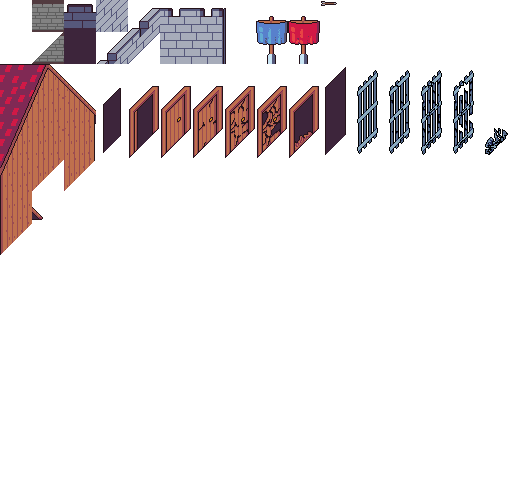
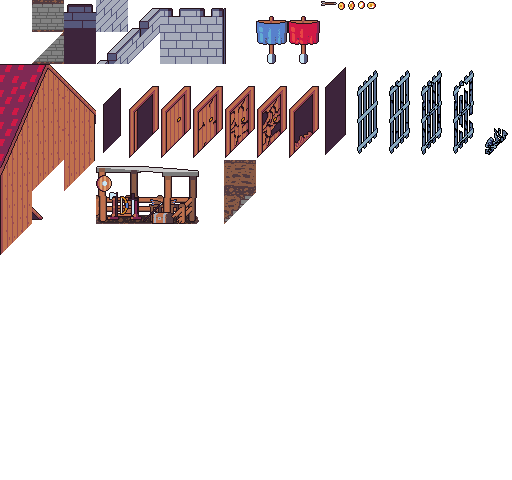
Camp decor

Changed region(s): [[0.1875, 0.3438, 0.4062, 0.4688], [0.4375, 0.3125, 0.5, 0.4688], [0.6562, 0.0, 0.75, 0.0312]]

diff --git a/game/scene.go b/game/scene.go
@@ -4,8 +4,6 @@ import (
 	"pure-game-kit/packages/assets"
 	"pure-game-kit/packages/geometry"
 	"pure-game-kit/packages/graphics"
-	"pure-game-kit/packages/input/keyboard"
-	"pure-game-kit/packages/input/keyboard/key"
 	"pure-game-kit/packages/utility/collection"
 	"pure-game-kit/packages/utility/color"
 	"pure-game-kit/packages/utility/number"
@@ -40,8 +38,8 @@ var Masks = [13]geometry.Area{
 	LaneUpper:  geometry.NewArea(0, 0, 428, 1000),
 }
 var Entrances [6]*Entrance // index is Ally[Lower, Middle, Upper], Enemy[Lower, Middle, Upper]
-var Units []*Unit
-var Projectiles, ProjectilesBehind []*Projectile
+var Units []*Unit = make([]*Unit, 0, 16)
+var Projectiles, ProjectilesBehind []*Projectile = make([]*Projectile, 0, 32), make([]*Projectile, 0, 32)
 
 func InitScene() {
 	View = graphics.NewView(1)
@@ -52,11 +50,11 @@ func InitScene() {
 	assets.FontId(0).EmbedImage(text.At(Tags[IconHealth], 0), UserInterfaceCrops.Crops("icons")[IconHealth])
 
 	var layers, decor = assets.LoadTileLayersFromTiled("data/map.tmx")
-	var low, mid, up = graphics.NewTilemap(layers[12]), graphics.NewTilemap(layers[13]), graphics.NewTilemap(layers[14])
-	var g1, g2, g3 = graphics.NewTilemap(layers[15]), graphics.NewTilemap(layers[16]), graphics.NewTilemap(layers[17])
-	var g4, g5 = graphics.NewTilemap(layers[18]), graphics.NewTilemap(layers[19])
-	var p1, p2, p3 = graphics.NewTilemap(layers[20]), graphics.NewTilemap(layers[21]), graphics.NewTilemap(layers[22])
-	var p4, p5 = graphics.NewTilemap(layers[23]), graphics.NewTilemap(layers[24])
+	var low, mid, up = graphics.NewTilemap(layers[13]), graphics.NewTilemap(layers[14]), graphics.NewTilemap(layers[15])
+	var g1, g2, g3 = graphics.NewTilemap(layers[16]), graphics.NewTilemap(layers[17]), graphics.NewTilemap(layers[18])
+	var g4, g5 = graphics.NewTilemap(layers[19]), graphics.NewTilemap(layers[20])
+	var p1, p2, p3 = graphics.NewTilemap(layers[21]), graphics.NewTilemap(layers[22]), graphics.NewTilemap(layers[23])
+	var p4, p5 = graphics.NewTilemap(layers[24]), graphics.NewTilemap(layers[25])
 
 	Layers = layers
 	DecorCrops = assets.LoadAtlas(decor, "data/decor.xml")
@@ -77,14 +75,14 @@ func InitScene() {
 
 	mirrorGarrisonLanes()
 
-	MapLayer, Map = layers[9], graphics.NewTilemap(layers[9])
-	Flags, Grid = graphics.NewTilemap(layers[10]), graphics.NewTilemap(layers[11])
+	MapLayer, Map = layers[9], graphics.NewTilemap(layers[10])
+	Flags, Grid = graphics.NewTilemap(layers[11]), graphics.NewTilemap(layers[12])
 
-	AllyBase = NewBase(BaseFortress, Garrison3, true)
-	EnemyBase = NewBase(BaseFort, Garrison0, false)
+	AllyBase = NewBase(SaveState{}, true)
+	EnemyBase = NewBase(SaveState{Base: BaseFort}, false)
 
 	Units = append(Units, NewUnit(CharacterHunter, TeamAlly, LaneMiddle))
-	// Units = append(Units, NewUnit(CharacterHunter, TeamEnemy, LaneUpper))
+	Units = append(Units, NewUnit(CharacterHunter, TeamEnemy, LaneUpper))
 	// Units = append(Units, NewUnit(CharacterMan, TeamEnemy, LaneUpper))
 	// Units = append(Units, NewUnit(CharacterWoman, TeamEnemy, LaneMiddle))
 	// Units = append(Units, NewUnit(CharacterHunter, TeamAlly, LaneGarrisonPlus1))
@@ -99,12 +97,12 @@ func InitScene() {
 	// Units = append(Units, NewUnit(CharacterHunter, TeamAlly, LaneGarrison5))
 
 	Entrances = [6]*Entrance{
-		LaneLower:      NewEntrance(EntranceTallGate, TeamAlly, LaneLower),
-		LaneMiddle:     NewEntrance(EntranceTallGate, TeamAlly, LaneMiddle),
-		LaneUpper:      NewEntrance(EntranceTallGate, TeamAlly, LaneUpper),
-		LaneLower + 3:  NewEntrance(EntranceHole, TeamEnemy, LaneLower),
+		LaneLower:      NewEntrance(EntranceNone, TeamAlly, LaneLower),
+		LaneMiddle:     NewEntrance(EntranceNone, TeamAlly, LaneMiddle),
+		LaneUpper:      NewEntrance(EntranceNone, TeamAlly, LaneUpper),
+		LaneLower + 3:  NewEntrance(EntranceNone, TeamEnemy, LaneLower),
 		LaneMiddle + 3: NewEntrance(EntranceDoor, TeamEnemy, LaneMiddle),
-		LaneUpper + 3:  NewEntrance(EntranceHole, TeamEnemy, LaneUpper),
+		LaneUpper + 3:  NewEntrance(EntranceNone, TeamEnemy, LaneUpper),
 	}
 
 	PlayAmbience(EnvironmentPlains)
@@ -118,14 +116,8 @@ func UpdateScene() {
 	View.DrawColor(skyColor)
 	View.DrawObject(&Background)
 
-	View.DrawObject(AllyBase.Back)
-	View.DrawObject(AllyBase.GarrisonBack)
-	View.DrawObject(EnemyBase.Back)
-	View.DrawObject(EnemyBase.GarrisonBack)
-
-	if keyboard.IsKeyJustPressed(key.A) {
-		Entrances[4].TakeDamage(30)
-	}
+	AllyBase.UpdateBack()
+	EnemyBase.UpdateBack()
 
 	for _, g := range Entrances {
 		g.Update()
@@ -151,8 +143,8 @@ func UpdateScene() {
 		}
 	}
 
-	AllyBase.Update()
-	EnemyBase.Update()
+	AllyBase.UpdateFront()
+	EnemyBase.UpdateFront()
 
 	for _, p := range Projectiles {
 		if p != nil { // may have been destroyed, faded out & removed during an update

diff --git a/game/base.go b/game/base.go
@@ -8,23 +8,27 @@ import (
 
 type Base uint8
 type Garrison uint8
-
+type SaveState struct {
+	Base     Base
+	Garrison Garrison
+	Coins    int
+}
 type BaseData struct {
+	SaveState
+
 	Glory int
 
 	Back, Front, GarrisonBack, GarrisonFront, GloryLabel *graphics.Object
 
 	lastGlory int
-	base      Base
-	garrison  Garrison
 }
 
-const BaseBarrack, BaseFort, BaseFortress Base = 0, 1, 2
+const BaseCamp, BaseBarrack, BaseFort, BaseFortress Base = 0, 1, 2, 3
 const Garrison0, Garrison1, Garrison2, Garrison3 Garrison = 0, 1, 2, 3
 
-func NewBase(base Base, garrison Garrison, ally bool) BaseData {
-	var glory = map[Base]int{BaseBarrack: 40, BaseFort: 100, BaseFortress: 350}[base]
-	var b = BaseData{base: base, garrison: garrison, Glory: glory}
+func NewBase(saveState SaveState, ally bool) BaseData {
+	var glory = map[Base]int{BaseCamp: 15, BaseBarrack: 30, BaseFort: 90, BaseFortress: 360}[saveState.Base]
+	var b = BaseData{SaveState: saveState, Glory: glory}
 
 	var ptsX, ptsY = PointAtCell(14, 5.5)
 	if ally {
@@ -37,27 +41,32 @@ func NewBase(base Base, garrison Garrison, ally bool) BaseData {
 	label.Effects.OutlineSize, label.Effects.OutlineColor = 0.4, palette.Black
 	b.GloryLabel = &label
 
-	if base == BaseBarrack {
-		var barrack = graphics.NewTilemap(Layers[0])
-		b.Front = &barrack
+	switch b.Base {
+	case BaseCamp:
+		var back = graphics.NewTilemap(Layers[0])
+		b.Back = &back
+		return b
+	case BaseBarrack:
+		var barrack = graphics.NewTilemap(Layers[1])
+		b.Back = &barrack
 		return b
 	}
 
-	var back, front = graphics.NewTilemap(Layers[1]), graphics.NewTilemap(Layers[2])
+	var back, front = graphics.NewTilemap(Layers[2]), graphics.NewTilemap(Layers[3])
 	b.Back, b.Front = &back, &front
 
-	if garrison != Garrison0 {
-		var indexes = map[Garrison][2]int{Garrison1: {3, 4}, Garrison2: {5, 6}, Garrison3: {7, 8}}[garrison]
+	if b.Garrison != Garrison0 {
+		var indexes = map[Garrison][2]int{Garrison1: {4, 5}, Garrison2: {6, 7}, Garrison3: {8, 9}}[b.Garrison]
 		var garBack, garFront = graphics.NewTilemap(Layers[indexes[0]]), graphics.NewTilemap(Layers[indexes[1]])
 		b.GarrisonBack, b.GarrisonFront = &garBack, &garFront
 
-		if base == BaseFort {
+		if b.Base == BaseFort {
 			b.GarrisonBack.Y += TileSize
 			b.GarrisonFront.Y += TileSize
 		}
 	}
 
-	if base == BaseFort {
+	if b.Base == BaseFort {
 		b.Back.Y += TileSize
 		b.Front.Y += TileSize
 
@@ -70,11 +79,15 @@ func NewBase(base Base, garrison Garrison, ally bool) BaseData {
 	return b
 }
 
-func (b *BaseData) Update() {
+func (b *BaseData) UpdateBack() {
+	View.DrawObject(b.Back)
+	View.DrawObject(b.GarrisonBack)
+}
+func (b *BaseData) UpdateFront() {
 	b.Glory = max(b.Glory, 0)
 
 	if b.Glory == 0 {
-		TimeScale = 0 // game over
+		//TimeScale = 0 // game over
 	}
 
 	if b.Glory != b.lastGlory {

diff --git a/game/unit.go b/game/unit.go
@@ -89,7 +89,13 @@ func NewUnit(character Character, team Team, lane Lane) *Unit {
 		unit.X, unit.Y = PointAtCell(18, 3)
 	}
 	if team == TeamAlly {
+		if AllyBase.Base == BaseCamp {
+			unit.X = Background.Width/2 + unit.Width/2
+		}
+
 		unit.X = -unit.X
+	} else if EnemyBase.Base == BaseCamp {
+		unit.X = Background.Width / 2
 	}
 
 	var hb = unit.Hitbox()
@@ -294,13 +300,25 @@ func (u *Unit) actUponState() {
 		switch u.Team {
 		case TeamAlly:
 			u.VelocityX = float32(u.Stats.MoveSpeed)
+			if (u.X < 0 && AllyBase.Base == BaseCamp) || (u.X > 0 && EnemyBase.Base == BaseCamp) {
+				u.Mask = geometry.Area{}
+			}
 			if e != nil && u.X > e.Tiles[0].X {
 				u.HealthBar.MoveToGlory(2.0)
 			}
+			if u.X > Background.Width/2+u.Width/2 {
+				Units = collection.Remove(Units, u)
+			}
 		case TeamEnemy:
 			u.VelocityX = -float32(u.Stats.MoveSpeed)
+			if u.X < 0 && AllyBase.Base == BaseCamp {
+				u.Mask = geometry.Area{}
+			}
 			if e != nil && u.X < e.Tiles[0].X {
 				u.HealthBar.MoveToGlory(2.0)
+			}
+			if u.X < -Background.Width/2-u.Width/2 {
+				Units = collection.Remove(Units, u)
 			}
 		}
 	case StateActionStart:
@@ -336,8 +354,10 @@ func (u *Unit) actUponState() {
 			PlaySound(Characters[u.Character].Sounds.ActionTrigger)
 		} else if canBeActedUpon && e != nil {
 			var x, y = e.Tiles[0].X, e.Tiles[0].Y
-			var z = map[Lane]float32{LaneLower: 0, LaneMiddle: 1, LaneUpper: 2}[e.Lane]
-			Projectiles = append(Projectiles, u.NewProjectile(u.X, u.Y, u.Z, x, y, z, dmg, e))
+			if e.Entrance == EntranceTallGate {
+				y += TileSize
+			}
+			Projectiles = append(Projectiles, u.NewProjectile(u.X, u.Y, u.Z, x, y, zs[e.Lane], dmg, e))
 			PlaySound(Characters[u.Character].Sounds.ActionTrigger)
 		}
 	case StateActionCharging, StateActionRecovering, StateActionEnd: // empty

diff --git a/game/entrance.go b/game/entrance.go
@@ -10,7 +10,7 @@ import (
 
 type EntranceType uint8
 
-const EntranceHole, EntranceDoor, EntranceShortGate, EntranceTallGate EntranceType = 0, 1, 2, 3
+const EntranceNone, EntranceDoor, EntranceShortGate, EntranceTallGate EntranceType = 0, 1, 2, 3
 
 type Entrance struct {
 	Tiles     []*graphics.Object
@@ -29,7 +29,7 @@ func NewEntrance(entry EntranceType, team Team, lane Lane) *Entrance {
 	var data = Entrance{Entrance: entry, Team: team, Lane: lane, maxOpenY: TileSize + (TileSize * (float32(entry) - 1))}
 	var x, y float32 = -208, 48 // ally upper lane by default
 
-	if entry != EntranceHole {
+	if entry != EntranceNone {
 		var hb = NewHealthBar(TileSize-2, team)
 		data.HealthBar = &hb
 		data.MaxHealth, data.Health = 100, 100
@@ -45,8 +45,12 @@ func NewEntrance(entry EntranceType, team Team, lane Lane) *Entrance {
 	}
 
 	switch entry {
-	case EntranceHole:
+	case EntranceNone:
 		var hole = graphics.NewSprite(x, y, 1, DecorCrops.Crops("hole")[0])
+		if (team == TeamAlly && AllyBase.Base == BaseCamp) || (team == TeamEnemy && EnemyBase.Base == BaseCamp) {
+			hole.Effects.Tint = 0
+		}
+
 		data.Tiles = []*graphics.Object{&hole}
 	case EntranceDoor:
 		var door = graphics.NewSprite(x, y, 1, DecorCrops.Crops("door")[1])

diff --git a/game/health-bar.go b/game/health-bar.go
@@ -63,6 +63,7 @@ func (hb *HealthBar) Update(target geometry.Shape, health, maxHealth int, mask g
 		hb.timer -= DeltaTimeScaled()
 		hb.background.Effects.Tint = color.RGBA(255, 255, 255, alpha)
 		hb.fill.Effects.Tint = color.RGBA(255, 255, 255, alpha)
+		hb.damage.Effects.Tint = color.RGBA(255, 255, 255, alpha)
 		hb.label.Effects.Tint = color.RGBA(255, 255, 255, alpha)
 	} else if hb.timer < 0 {
 		if hb.toGlory && !hb.subtractedGlory {
